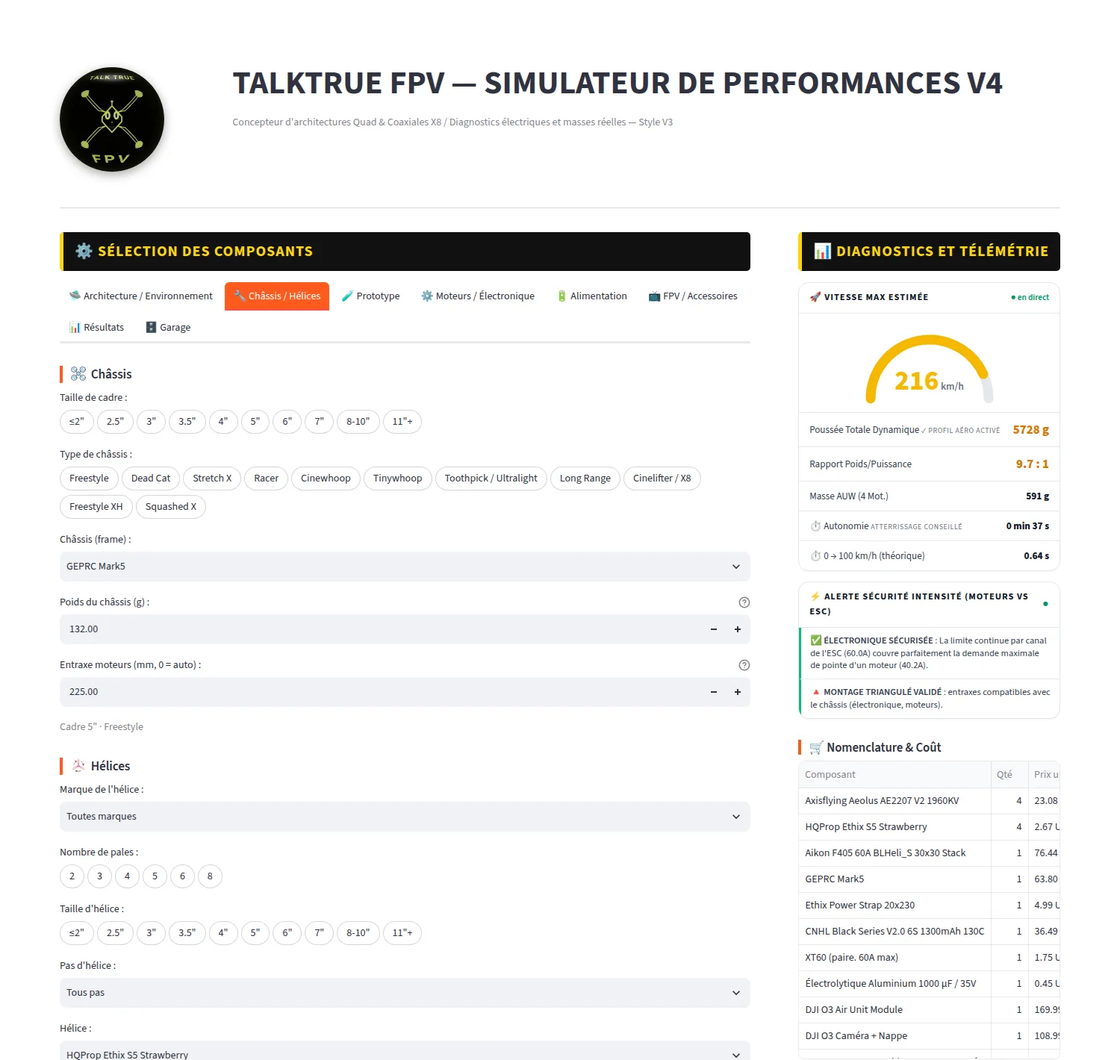
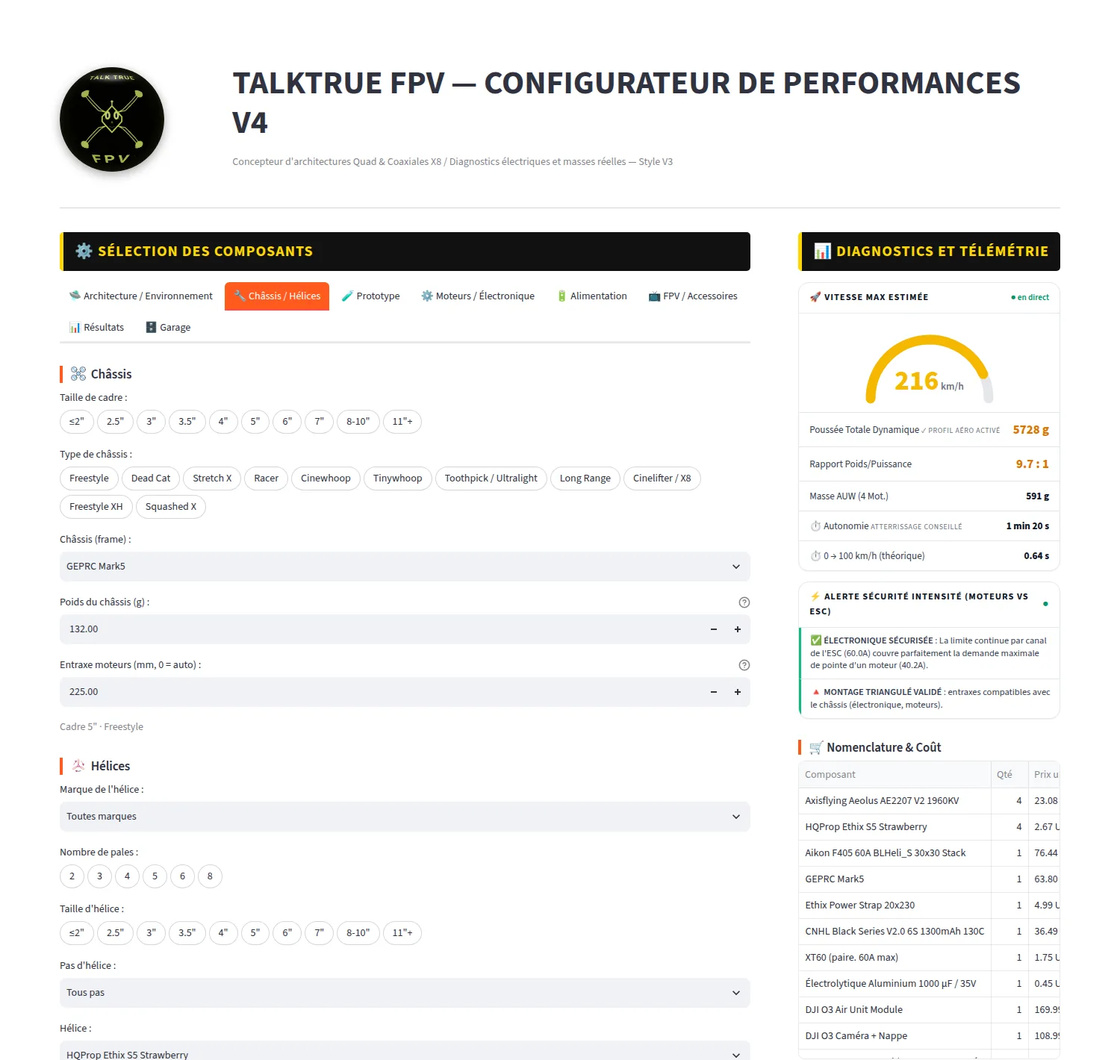
Page d'accueil : configurateur, bandeau Calculateur

Changed region(s): [[0.4293, 0.062, 0.92, 0.1239], [0.3987, 0.093, 0.4293, 0.1239], [0.2147, 0.093, 0.2453, 0.1239]]

diff --git a/index.html b/index.html
@@ -5,7 +5,7 @@
 <meta name="viewport" content="width=device-width, initial-scale=1">
 <title>TALKTRUE FPV — Concevez votre drone FPV : vitesse, puissance, autonomie et calcul CFD</title>
 <meta name="description" content="Concevez votre drone FPV et évaluez en 30 s sa vitesse maximale, sa poussée et son autonomie, avec plus de 1 000 composants indexés et plus de 200 châssis, validés par des données de vol GPS. Panier groupé par revendeur, garage de configurations, et en PRO la soufflerie et le calcul CFD OpenFOAM.">
-<meta name="keywords" content="calculateur FPV, simulateur drone FPV, vitesse drone FPV, autonomie batterie drone, poussée moteur hélice, CFD drone FPV, OpenFOAM drone, traînée drone FPV, Cx drone, ParaView, soufflerie drone, calculateur FPV, simulateur drone FPV, vitesse drone FPV, speeder FPV, eCalc alternative">
+<meta name="keywords" content="calculateur FPV, configurateur drone FPV, simulateur drone FPV, vitesse drone FPV, autonomie batterie drone, poussée moteur hélice, CFD drone FPV, OpenFOAM drone, traînée drone FPV, Cx drone, ParaView, soufflerie drone, calculateur FPV, simulateur drone FPV, vitesse drone FPV, speeder FPV, eCalc alternative">
 <link rel="canonical" href="https://jschmiedd.github.io/">
 <link rel="alternate" hreflang="fr" href="https://jschmiedd.github.io/">
 <link rel="alternate" hreflang="en" href="https://jschmiedd.github.io/en/">
@@ -34,7 +34,7 @@
   "@context": "https://schema.org",
   "@type": "WebSite",
   "name": "TALKTRUE FPV",
-  "alternateName": ["TalkTrue FPV", "TALKTRUE FPV Simulateur"],
+  "alternateName": ["TalkTrue FPV", "TALKTRUE FPV Configurateur"],
   "url": "https://jschmiedd.github.io/",
   "inLanguage": "fr"
 }
@@ -43,7 +43,7 @@
 {
   "@context": "https://schema.org",
   "@type": "SoftwareApplication",
-  "name": "TALKTRUE FPV — Simulateur de performances V4",
+  "name": "TALKTRUE FPV — Configurateur de performances V4",
   "applicationCategory": "EngineeringApplication",
   "operatingSystem": "Web",
   "url": "https://talktrue-simulateur-performences-v4.streamlit.app/",
@@ -64,7 +64,7 @@
      "acceptedAnswer": {"@type": "Answer", "text": "Non. Vous chargez votre STL, vous choisissez l'inclinaison et la vitesse, et le serveur de calcul TALKTRUE fait tout : réparation du STL, domaine, maillage snappyHexMesh, calcul k-ω SST jusqu'à convergence. Rien à installer."}},
     {"@type": "Question", "name": "Comment ouvrir les résultats dans ParaView ?",
      "acceptedAnswer": {"@type": "Answer", "text": "Chaque calcul fournit un zip pour ParaView (gratuit) : surface du drone, lignes de courant et une macro qui fait défiler l'air. Le pas à pas illustré est dans le Mode d'emploi de l'app."}},
-    {"@type": "Question", "name": "Le simulateur TALKTRUE FPV est-il gratuit ?",
+    {"@type": "Question", "name": "Le configurateur TALKTRUE FPV est-il gratuit ?",
      "acceptedAnswer": {"@type": "Answer", "text": "Oui. Le calculateur complet, plus de 200 châssis, les alertes de sécurité, le panier groupé par revendeur et un garage de 3 configurations sont gratuits et sans inscription. Le PRO ajoute le garage en ligne, la soufflerie, le calcul CFD, le châssis prototype, le Quad Speeder, la 3D, l'import STL/DXF et le recalage GPS."}},
     {"@type": "Question", "name": "Les vitesses calculées sont-elles fiables ?",
      "acceptedAnswer": {"@type": "Answer", "text": "Le modèle est calé sur de vrais vols mesurés au GPS (TOWA 5 pouces, 121 et 126 km/h) et tient compte de l'inclinaison du drone, de la densité de l'air et du format réel de la batterie. En PRO, vous pouvez recaler le calcul sur votre propre mesure GPS."}},
@@ -95,7 +95,7 @@
       <a href="#faq">FAQ</a>
     </nav>
     <a class="langue" href="en/" hreflang="en" lang="en">EN</a>
-    <a class="bouton principal" href="https://talktrue-simulateur-performences-v4.streamlit.app/">Lancer le simulateur</a>
+    <a class="bouton principal" href="https://talktrue-simulateur-performences-v4.streamlit.app/">Lancer le configurateur</a>
   </div>
 </header>
 
@@ -103,20 +103,23 @@
 <section class="heros">
   <div class="conteneur grille">
     <div>
-      <span class="sur">Simulateur de performances FPV · V4</span>
+      <span class="sur">Configurateur de performances FPV · V4</span>
       <h1>Concevez votre drone FPV. <span class="neon">Évaluez sa vitesse, sa puissance et son autonomie</span> avant de le construire.</h1>
       <p class="accroche">Poussée, vitesse maximale, autonomie et accélération transitoire (0 → 100 km/h) calculées à partir
         de composants réels du marché et validées en situation réelle par des données GPS. Du châssis 3 pouces au
         cinelifter X8, jusqu'au Quad Speeder à fuselage profilé, modélisez en 2D, en 3D, et accédez désormais au
         <b>calcul CFD OpenFOAM</b>.</p>
       <div class="actions">
-        <a class="bouton principal" href="https://talktrue-simulateur-performences-v4.streamlit.app/">🚀 Lancer le simulateur — Gratuit</a>
+        <a class="bouton principal" href="https://talktrue-simulateur-performences-v4.streamlit.app/">🚀 Lancer le configurateur — Gratuit</a>
         <a class="bouton secondaire" href="#cfd">🌀 Nouveau : module CFD</a>
       </div>
       <div class="chiffres">
-        <div><b>1 000+</b><span>Composants indexés</span></div>
-        <div><b>121 km/h</b><span>Vitesse max. validée par GPS</span></div>
-        <div><b>CFD</b><span>OpenFOAM sur votre STL</span></div>
+        <div><b>1 000+</b><span>Composants réels à configurer</span></div>
+        <div><b>Vols réels</b><span>Calculs calés sur GPS et blackbox</span></div>
+        <div><b>Calculateur</b><span>Formules physiques : poussée, traînée, vitesse, autonomie, intensités</span></div>
+        <div><b>Garage</b><span>Vos configurations comparées côte à côte</span></div>
+        <div><b>Panier</b><span>Vos pièces regroupées par vendeur</span></div>
+        <div><b>CFD</b><span>OpenFOAM + ParaView sur serveur dédié · moteur maison bientôt</span></div>
       </div>
     </div>
     <div class="sphere">
@@ -163,11 +166,11 @@
         <h3>Une interface pensée pour les pilotes</h3>
         <ul>
           <li><b>Filtres multicritères avancés</b> : tri instantané par dimensions de cellule, géométrie de châssis, équipementier, constante de vitesse (KV), pas d'hélice, configuration de cellules (S) et capacité nominale.</li>
-          <li><b>Persistance des données</b> : sauvegarde automatique de l'état de votre configuration lors de la navigation entre le simulateur, la documentation technique et le wiki.</li>
+          <li><b>Persistance des données</b> : sauvegarde automatique de l'état de votre configuration lors de la navigation entre le configurateur, la documentation technique et le wiki.</li>
           <li><b>Modélisation des conditions atmosphériques</b> : intégration des variables d'environnement (altitude-densité, température, hygrométrie et pression calée au niveau de la mer, QNH).</li>
         </ul>
       </div>
-      <figure class="visuel"><img src="assets/guide/01_apercu.webp" width="1500" height="1420" loading="lazy" alt="Interface du simulateur TALKTRUE FPV : sélection des composants et diagnostics"></figure>
+      <figure class="visuel"><img src="assets/guide/01_apercu.webp" width="1500" height="1420" loading="lazy" alt="Interface du configurateur TALKTRUE FPV : sélection des composants et diagnostics"></figure>
     </div>
   
     <div class="cartes">
@@ -194,9 +197,9 @@
           <li><b>Quantités réelles</b> : 4 moteurs, hélices, antennes vendues par paire comptées par lot.</li>
           <li>Prix en <b>EUR ou USD</b>, export <b>PDF / CSV</b> de la liste.</li>
         </ul>
-        <p class="note">Aucun site marchand ne permet d'ajouter un article à son panier depuis l'extérieur : le regroupement par boutique est la façon la plus rapide d'acheter sans rien oublier.</p>
+        <p class="note">Un clic par boutique : chaque site s'ouvre une seule fois, avec la liste complète des pièces à y commander.</p>
       </div>
-      <figure class="visuel" style="max-width:430px;justify-self:center"><img src="assets/guide/panier.webp" width="352" height="822" loading="lazy" alt="Panier d'achat du simulateur FPV groupé par revendeur, avec quantités, prix et liens"><figcaption>Un 5″ freestyle 6S : 6 boutiques, chaque pièce avec son lien</figcaption></figure>
+      <figure class="visuel" style="max-width:430px;justify-self:center"><img src="assets/guide/panier.webp" width="352" height="822" loading="lazy" alt="Panier d'achat du configurateur FPV groupé par revendeur, avec quantités, prix et liens"><figcaption>Un 5″ freestyle 6S : 6 boutiques, chaque pièce avec son lien</figcaption></figure>
     </div>
   </div>
 </section>
@@ -210,7 +213,7 @@
         <ul>
           <li><b>Enregistrez</b> vos configurations et <b>comparez-les côte à côte</b> : moteur, hélice, batterie, masse, poussée, vitesse, coût.</li>
           <li><b>Rechargez</b> une configuration dans les réglages en un clic.</li>
-          <li><b>Free</b> : 3 configurations gardées dans le lien de la page (favori = sauvegarde, lien = partage). <b>PRO</b> : 10 configurations en ligne, sur tous vos appareils.</li>
+          <li><b>Free</b> : jusqu'à 3 configurations. <b>PRO</b> : jusqu'à 10 configurations, retrouvées sur tous vos appareils.</li>
           <li><b>Export</b> Markdown (Discord, forum), CSV (Excel) ou PDF.</li>
         </ul>
       </div>
@@ -251,7 +254,7 @@
   <div class="conteneur">
     <span class="sur">Sur le terrain</span>
     <h2>Des drones qui volent vraiment</h2>
-    <p class="intro">Les mesures qui ont servi à caler le simulateur, et ce que donne le même TOWA 5″ une fois allégé et réglé.</p>
+    <p class="intro">Les mesures qui ont servi à caler le configurateur, et ce que donne le même TOWA 5″ une fois allégé et réglé.</p>
     <div class="terrain">
       <figure class="carte-photo haute"><video id="launch" autoplay loop muted playsinline poster="assets/terrain/launch_control.jpg" aria-label="Launch control d'un drone FPV"><source src="assets/terrain/launch_control.webm" type="video/webm"><source src="assets/terrain/launch_control.mp4" type="video/mp4"></video><button class="son" type="button" onclick="const v=document.getElementById('launch');v.muted=!v.muted;v.play();this.textContent=v.muted?'🔊 Son':'🔇';">🔊 Son</button><figcaption><b>Launch control</b> · départ depuis la caisse, vue FPV et blackbox</figcaption></figure>
       <figure class="carte-photo large"><img src="assets/terrain/towa_5pouces.webp" width="864" height="647" loading="lazy" alt="Drone FPV TOWA 5 pouces freestyle sur un chemin"><figcaption><b>TOWA 5″</b> · la configuration de calage, allégée de 16 g</figcaption></figure>
@@ -261,7 +264,7 @@
       <figure class="carte-photo"><img src="assets/terrain/towa_osd_186.webp" width="1080" height="810" loading="lazy" alt="Statistiques OSD : vitesse max 186 km/h"><figcaption><b class="neon">186 km/h</b> · vent dans le dos (vitesse sol, pas une mesure de référence)</figcaption></figure>
       <figure class="carte-photo avec-son"><video id="decollage3" autoplay loop muted playsinline poster="assets/terrain/decollage_3pouces.jpg" aria-label="Décollage d'un drone FPV 3 pouces"><source src="assets/terrain/decollage_3pouces_son.webm" type="video/webm"><source src="assets/terrain/decollage_3pouces_son.mp4" type="video/mp4"></video><button class="son" type="button" onclick="const v=document.getElementById('decollage3');v.muted=!v.muted;v.play();this.textContent=v.muted?'🔊 Son':'🔇';">🔊 Son</button><figcaption><b>TOWA 3″</b> · décollage plein gaz</figcaption></figure>
     </div>
-    <p class="note">Le simulateur est calé sur les vols de référence à 121 et 126 km/h (configuration d'origine, sans vent). Les 145 km/h ont été atteints après allègement et réglages Betaflight ; les 186 km/h avec le vent dans le dos.</p>
+    <p class="note">Le configurateur est calé sur les vols de référence à 121 et 126 km/h (configuration d'origine, sans vent). Les 145 km/h ont été atteints après allègement et réglages Betaflight ; les 186 km/h avec le vent dans le dos.</p>
   </div>
 </section>
 
@@ -344,7 +347,7 @@
           <li><b>Modélisation dynamique des rotors</b> : intégration du sillage aérodynamique des hélices en rotation, calcul de la perte de poussée par interaction avec le châssis (effet de sillage) et répartition de charge avant / arrière.</li>
           <li><b>Génération instantanée</b> : rendu en temps réel pour l'exploration de concepts ; validation finale par résolution des équations CFD.</li>
         </ul>
-        <p class="note">Le module de soufflerie applique les formulations analytiques du simulateur, calées sur des données de vol réelles. Les lignes de courant et les particules illustrent l'écoulement. Le calcul CFD, quant à lui, résout numériquement les équations de Navier-Stokes autour de votre maillage STL.</p>
+        <p class="note">Le module de soufflerie applique les formulations analytiques du configurateur, calées sur des données de vol réelles. Les lignes de courant et les particules illustrent l'écoulement. Le calcul CFD, quant à lui, résout numériquement les équations de Navier-Stokes autour de votre maillage STL.</p>
       </div>
       <div>
         <figure class="visuel"><video autoplay loop muted playsinline poster="assets/soufflerie/combinee.jpg"
@@ -442,7 +445,7 @@
           <li>Recalculé à <b>500 km/h</b> par le serveur TALKTRUE : <b>8,3</b> et <b>44 cm²</b>, le Cx reste quasi identique.</li>
           <li>Le calcul rapide de l'app (Cx fixe 0,68 pour un STL) <b>surestime</b> la traînée d'un Speeder bien profilé : le CFD le corrige.</li>
         </ul>
-        <p class="note">RANS stationnaire, sans les hélices ni leur souffle, lois de paroi : ordre de grandeur ±15 à 25 %. À confirmer par un vol GPS, comme tout le reste du simulateur.</p>
+        <p class="note">RANS stationnaire, sans les hélices ni leur souffle, lois de paroi : ordre de grandeur ±15 à 25 %. À confirmer par un vol GPS, comme tout le reste du configurateur.</p>
       </div>
       <div class="mesure">
         <table>
@@ -460,7 +463,7 @@
   <div class="conteneur">
     <span class="sur">L'atelier</span>
     <h2>Conçu par un pilote qui construit ses drones</h2>
-    <p class="intro">Châssis découpés, pièces imprimées en 3D, câblage et pesée : le simulateur est né de l'atelier,
+    <p class="intro">Châssis découpés, pièces imprimées en 3D, câblage et pesée : le configurateur est né de l'atelier,
       pour savoir avant de construire.</p>
     <div class="terrain">
       <figure class="carte-photo large"><img src="assets/constructions/bob_le_racer.webp" width="1200" height="900" loading="lazy" alt="BOB le Racer, drone FPV à canopée jaune, effigie de la marque TALKTRUE FPV"><figcaption><b class="neon">BOB le Racer</b> · l'effigie de la marque : sa canopée a donné sa forme au logo TALKTRUE</figcaption></figure>
@@ -511,12 +514,12 @@
   <div class="conteneur">
     <span class="sur">FAQ</span>
     <h2>Questions fréquentes</h2>
-    <details open><summary>Le simulateur est-il gratuit ?</summary><p>Oui. Le calculateur complet (poussée, vitesse, autonomie, accélération), plus de 200 châssis, les alertes de sécurité, le panier groupé par revendeur et un garage de 3 configurations sont gratuits et sans inscription. Le PRO ajoute le garage de 10 configurations en ligne, la soufflerie, le calcul CFD, le châssis prototype, le Quad Speeder, la 3D, l'import STL/DXF et le recalage GPS.</p></details>
+    <details open><summary>Le configurateur est-il gratuit ?</summary><p>Oui. Le calculateur complet (poussée, vitesse, autonomie, accélération), plus de 200 châssis, les alertes de sécurité, le panier groupé par revendeur et un garage de 3 configurations sont gratuits et sans inscription. Le PRO ajoute le garage de 10 configurations en ligne, la soufflerie, le calcul CFD, le châssis prototype, le Quad Speeder, la 3D, l'import STL/DXF et le recalage GPS.</p></details>
     <details><summary>Qu'est-ce que le calcul CFD ?</summary><p>Un vrai calcul d'écoulement de l'air autour de votre drone, fait avec <b>OpenFOAM</b> (le logiciel CFD libre utilisé dans l'industrie) à partir de votre fichier STL. Vous obtenez la traînée mesurée (S·Cx), le Cx équivalent, la portance, une carte de pression 3D et un paquet de fichiers pour ParaView.</p></details>
     <details><summary>Faut-il savoir utiliser OpenFOAM ?</summary><p>Non. Vous chargez votre STL, vous choisissez l'inclinaison et la vitesse, et le serveur de calcul fait tout : réparation du STL, domaine, maillage snappyHexMesh, calcul k-ω SST jusqu'à convergence, contrôles. Rien à installer sur votre ordinateur.</p></details>
     <details><summary>Combien de temps dure un calcul ?</summary><p>Quelques dizaines de minutes par inclinaison, selon la taille du modèle et la file d'attente. Vous pouvez fermer l'app : le calcul continue et le résultat vous attend dans l'onglet 🌀 Calcul CFD.</p></details>
     <details><summary>Comment voir les résultats dans ParaView ?</summary><p>Chaque calcul fournit un zip pour <a href="https://www.paraview.org/download/" rel="noopener">ParaView</a> (gratuit) : surface du drone, lignes de courant et une macro qui fait défiler l'air. Le pas à pas illustré est dans le Mode d'emploi de l'app.</p></details>
-    <details><summary>Le CFD est-il exact ?</summary><p>C'est un calcul stationnaire (RANS) sans les hélices ni leur souffle, avec des lois de paroi : comptez ±15 à 25 %. Il est idéal pour <b>comparer des formes</b> et voir d'où vient la traînée. La vitesse réelle se confirme par un vol GPS, sur laquelle vous pouvez recaler le simulateur.</p></details>
+    <details><summary>Le CFD est-il exact ?</summary><p>C'est un calcul stationnaire (RANS) sans les hélices ni leur souffle, avec des lois de paroi : comptez ±15 à 25 %. Il est idéal pour <b>comparer des formes</b> et voir d'où vient la traînée. La vitesse réelle se confirme par un vol GPS, sur laquelle vous pouvez recaler le configurateur.</p></details>
     <details><summary>Et la soufflerie virtuelle ?</summary><p>C'est l'estimation instantanée : mêmes formules que la vitesse max, calées sur des vols GPS, avec l'écoulement et le jet des hélices illustrés. Utilisez-la pour explorer, puis le calcul CFD pour trancher.</p></details>
     <details><summary>Quelle différence avec eCalc ?</summary><p>eCalc est une référence pour le calcul pur. TALKTRUE FPV est une plateforme de conception : calcul CFD de votre propre modèle, composants réels avec prix et liens d'achat, garage de configurations, esquisses cotées, maquettes 3D et import de vos plans de CAO.</p></details>
     <details><summary>Qui est BOB ?</summary><p>BOB le Racer, c'est le drone de course à canopée jaune qui a inspiré le logo TALKTRUE FPV : sa silhouette est au centre de la sphère. L'effigie de la marque, et un vrai drone qui vole.</p></details>
@@ -535,9 +538,9 @@
 
 <footer>
   <div class="conteneur">
-    <span>© 2026 TALKTRUE FPV — Simulateur de performances V4 et calcul CFD</span>
+    <span>© 2026 TALKTRUE FPV — Configurateur de performances V4 et calcul CFD</span>
     <nav aria-label="Liens">
-      <a href="https://talktrue-simulateur-performences-v4.streamlit.app/">Simulateur</a>
+      <a href="https://talktrue-simulateur-performences-v4.streamlit.app/">Configurateur</a>
       <a href="https://www.paraview.org/download/" rel="noopener">ParaView</a>
       <a href="mailto:talktruefpv@gmail.com">talktruefpv@gmail.com</a>
       <a href="https://www.instagram.com/talktruefpv/">Instagram</a>

diff --git a/en/index.html b/en/index.html
@@ -5,7 +5,7 @@
 <meta name="viewport" content="width=device-width, initial-scale=1">
 <title>TALKTRUE FPV — Design your FPV drone: speed, power, flight time and CFD</title>
 <meta name="description" content="Design your FPV drone and assess its top speed, thrust and flight time in 30 s, with over 1,000 indexed components and over 200 frames, validated with GPS flight data. Cart grouped by retailer, build garage, and in PRO the wind tunnel and OpenFOAM CFD.">
-<meta name="keywords" content="FPV calculator, FPV drone simulator, FPV drone speed, drone battery flight time, motor prop thrust, FPV drone CFD, OpenFOAM drone, FPV drone drag, drone drag coefficient, ParaView, drone wind tunnel, FPV calculator, FPV drone simulator, FPV drone speed, FPV speeder, eCalc alternative">
+<meta name="keywords" content="FPV calculator, FPV drone configurator, FPV simulator, FPV drone speed, drone battery flight time, motor prop thrust, FPV drone CFD, OpenFOAM drone, FPV drone drag, drone drag coefficient, ParaView, drone wind tunnel, FPV calculator, FPV drone simulator, FPV drone speed, FPV speeder, eCalc alternative">
 <link rel="canonical" href="https://jschmiedd.github.io/en/">
 <link rel="alternate" hreflang="fr" href="https://jschmiedd.github.io/">
 <link rel="alternate" hreflang="en" href="https://jschmiedd.github.io/en/">
@@ -33,7 +33,7 @@
   "@context": "https://schema.org",
   "@type": "WebSite",
   "name": "TALKTRUE FPV",
-  "alternateName": ["TalkTrue FPV", "TALKTRUE FPV Simulator"],
+  "alternateName": ["TalkTrue FPV", "TALKTRUE FPV Configurator"],
   "url": "https://jschmiedd.github.io/",
   "inLanguage": "en"
 }
@@ -42,7 +42,7 @@
 {
   "@context": "https://schema.org",
   "@type": "SoftwareApplication",
-  "name": "TALKTRUE FPV — Performance simulator V4",
+  "name": "TALKTRUE FPV — Performance configurator V4",
   "applicationCategory": "EngineeringApplication",
   "operatingSystem": "Web",
   "url": "https://talktrue-simulateur-performences-v4.streamlit.app/",
@@ -63,7 +63,7 @@
      "acceptedAnswer": {"@type": "Answer", "text": "No. Upload your STL, choose the tilt and speed, and the TALKTRUE compute server does the rest: STL repair, domain, snappyHexMesh meshing, k-ω SST solve until convergence. Nothing to install."}},
     {"@type": "Question", "name": "How do I open the results in ParaView?",
      "acceptedAnswer": {"@type": "Answer", "text": "Every run comes with a zip for ParaView (free): drone surface, streamlines and a macro that makes the air flow. The illustrated step-by-step is in the app's user guide."}},
-    {"@type": "Question", "name": "Is the TALKTRUE FPV simulator free?",
+    {"@type": "Question", "name": "Is the TALKTRUE FPV configurator free?",
      "acceptedAnswer": {"@type": "Answer", "text": "Yes. The full calculator, over 200 frames, safety alerts, the cart grouped by retailer and a garage of 3 builds are free with no sign-up. PRO adds the online garage, the wind tunnel, CFD, the prototype frame, the Quad Speeder, 3D, STL/DXF import and GPS calibration."}},
     {"@type": "Question", "name": "Are the calculated speeds reliable?",
      "acceptedAnswer": {"@type": "Answer", "text": "The model is calibrated on real GPS-measured flights (TOWA 5-inch, 121 and 126 km/h) and accounts for the drone's tilt, air density and the real battery format. In PRO you can recalibrate on your own GPS measurement."}},
@@ -94,7 +94,7 @@
       <a href="#faq">FAQ</a>
     </nav>
     <a class="langue" href="../" hreflang="fr" lang="fr">FR</a>
-    <a class="bouton principal" href="https://talktrue-simulateur-performences-v4.streamlit.app/">Launch the simulator</a>
+    <a class="bouton principal" href="https://talktrue-simulateur-performences-v4.streamlit.app/">Launch the configurator</a>
   </div>
 </header>
 
@@ -102,20 +102,23 @@
 <section class="heros">
   <div class="conteneur grille">
     <div>
-      <span class="sur">FPV performance simulator · V4</span>
+      <span class="sur">FPV performance configurator · V4</span>
       <h1>Design your FPV drone. <span class="neon">Assess its speed, power and flight time</span> before you build it.</h1>
       <p class="accroche">Thrust, top speed, flight time and transient acceleration (0 → 100 km/h) computed from
         real market components and validated in real-world conditions with GPS data. From 3-inch frames to
         X8 cinelifters and the streamlined Quad Speeder, model in 2D and 3D, and now access
         <b>OpenFOAM CFD</b>.</p>
       <div class="actions">
-        <a class="bouton principal" href="https://talktrue-simulateur-performences-v4.streamlit.app/">🚀 Launch the simulator — Free</a>
+        <a class="bouton principal" href="https://talktrue-simulateur-performences-v4.streamlit.app/">🚀 Launch the configurator — Free</a>
         <a class="bouton secondaire" href="#cfd">🌀 New: CFD module</a>
       </div>
       <div class="chiffres">
-        <div><b>1,000+</b><span>Indexed components</span></div>
-        <div><b>121 km/h</b><span>Top speed validated by GPS</span></div>
-        <div><b>CFD</b><span>OpenFOAM on your STL</span></div>
+        <div><b>1,000+</b><span>Real components to configure</span></div>
+        <div><b>Real flights</b><span>Calibrated on GPS and blackbox data</span></div>
+        <div><b>Calculator</b><span>Physics formulas: thrust, drag, speed, flight time, currents</span></div>
+        <div><b>Garage</b><span>Your builds compared side by side</span></div>
+        <div><b>Cart</b><span>Your parts grouped by retailer</span></div>
+        <div><b>CFD</b><span>OpenFOAM + ParaView on a dedicated server · in-house engine coming soon</span></div>
       </div>
     </div>
     <div class="sphere">
@@ -162,11 +165,11 @@
         <h3>An interface designed for pilots</h3>
         <ul>
           <li><b>Advanced multi-criteria filters</b>: instant sorting by airframe size, frame geometry, manufacturer, velocity constant (KV), prop pitch, cell configuration (S) and rated capacity.</li>
-          <li><b>Data persistence</b>: your configuration state is saved automatically as you move between the simulator, the technical documentation and the wiki.</li>
+          <li><b>Data persistence</b>: your configuration state is saved automatically as you move between the configurator, the technical documentation and the wiki.</li>
           <li><b>Atmospheric modelling</b>: environment variables included (density altitude, temperature, humidity and sea-level pressure, QNH).</li>
         </ul>
       </div>
-      <figure class="visuel"><img src="../assets/guide/01_apercu.webp" width="1500" height="1420" loading="lazy" alt="TALKTRUE FPV simulator interface: component selection and diagnostics"></figure>
+      <figure class="visuel"><img src="../assets/guide/01_apercu.webp" width="1500" height="1420" loading="lazy" alt="TALKTRUE FPV configurator interface: component selection and diagnostics"></figure>
     </div>
   
     <div class="cartes">
@@ -193,9 +196,9 @@
           <li><b>Real quantities</b>: 4 motors, props, antennas sold in pairs counted by pack.</li>
           <li>Prices in <b>EUR or USD</b>, <b>PDF / CSV</b> export of the list.</li>
         </ul>
-        <p class="note">No shop lets you add items to its cart from outside: grouping by shop is the fastest way to buy without forgetting anything.</p>
+        <p class="note">One click per shop: each site opens once, with the full list of parts to order there.</p>
       </div>
-      <figure class="visuel" style="max-width:430px;justify-self:center"><img src="../assets/guide/panier.webp" width="352" height="822" loading="lazy" alt="FPV simulator shopping cart grouped by retailer, with quantities, prices and links"><figcaption>A 6S 5″ freestyle build: 6 shops, every part with its link</figcaption></figure>
+      <figure class="visuel" style="max-width:430px;justify-self:center"><img src="../assets/guide/panier.webp" width="352" height="822" loading="lazy" alt="FPV configurator shopping cart grouped by retailer, with quantities, prices and links"><figcaption>A 6S 5″ freestyle build: 6 shops, every part with its link</figcaption></figure>
     </div>
   </div>
 </section>
@@ -209,7 +212,7 @@
         <ul>
           <li><b>Save</b> your builds and <b>compare them side by side</b>: motor, prop, battery, weight, thrust, speed, cost.</li>
           <li><b>Reload</b> a build into the settings in one click.</li>
-          <li><b>Free</b>: 3 builds kept in the page link (bookmark = save, link = share). <b>PRO</b>: 10 builds online, on all your devices.</li>
+          <li><b>Free</b>: up to 3 builds. <b>PRO</b>: up to 10 builds, available on all your devices.</li>
           <li><b>Export</b> to Markdown (Discord, forums), CSV (Excel) or PDF.</li>
         </ul>
       </div>
@@ -249,7 +252,7 @@
   <div class="conteneur">
     <span class="sur">In the field</span>
     <h2>Drones that actually fly</h2>
-    <p class="intro">The measurements used to calibrate the simulator, and what the same TOWA 5″ does once lightened and tuned.</p>
+    <p class="intro">The measurements used to calibrate the configurator, and what the same TOWA 5″ does once lightened and tuned.</p>
     <div class="terrain">
       <figure class="carte-photo haute"><video id="launch" autoplay loop muted playsinline poster="../assets/terrain/launch_control.jpg" aria-label="FPV drone launch control"><source src="../assets/terrain/launch_control.webm" type="video/webm"><source src="../assets/terrain/launch_control.mp4" type="video/mp4"></video><button class="son" type="button" onclick="const v=document.getElementById('launch');v.muted=!v.muted;v.play();this.textContent=v.muted?'🔊 Sound':'🔇';">🔊 Sound</button><figcaption><b>Launch control</b> · take-off from the box, FPV view and blackbox</figcaption></figure>
       <figure class="carte-photo large"><img src="../assets/terrain/towa_5pouces.webp" width="864" height="647" loading="lazy" alt="TOWA 5-inch freestyle FPV drone on a path"><figcaption><b>TOWA 5″</b> · the calibration build, 16 g lighter</figcaption></figure>
@@ -259,7 +262,7 @@
       <figure class="carte-photo"><img src="../assets/terrain/towa_osd_186.webp" width="1080" height="810" loading="lazy" alt="OSD stats: max speed 186 km/h"><figcaption><b class="neon">186 km/h</b> · with a tailwind (ground speed, not a reference measurement)</figcaption></figure>
       <figure class="carte-photo avec-son"><video id="decollage3" autoplay loop muted playsinline poster="../assets/terrain/decollage_3pouces.jpg" aria-label="3-inch FPV drone take-off"><source src="../assets/terrain/decollage_3pouces_son.webm" type="video/webm"><source src="../assets/terrain/decollage_3pouces_son.mp4" type="video/mp4"></video><button class="son" type="button" onclick="const v=document.getElementById('decollage3');v.muted=!v.muted;v.play();this.textContent=v.muted?'🔊 Sound':'🔇';">🔊 Sound</button><figcaption><b>TOWA 3″</b> · full-throttle take-off</figcaption></figure>
     </div>
-    <p class="note">The simulator is calibrated on the 121 and 126 km/h reference flights (stock build, no wind). 145 km/h was reached after weight savings and Betaflight tuning; 186 km/h with a tailwind.</p>
+    <p class="note">The configurator is calibrated on the 121 and 126 km/h reference flights (stock build, no wind). 145 km/h was reached after weight savings and Betaflight tuning; 186 km/h with a tailwind.</p>
   </div>
 </section>
 
@@ -342,7 +345,7 @@
           <li><b>Dynamic rotor modelling</b>: wake of the spinning propellers included, thrust loss from interaction with the frame (wake effect) and front / rear load split.</li>
           <li><b>Instant generation</b>: real-time rendering to explore concepts; final validation by solving the CFD equations.</li>
         </ul>
-        <p class="note">The wind tunnel module applies the simulator's analytical formulations, calibrated on real flight data. Streamlines and particles illustrate the flow. The CFD run, for its part, numerically solves the Navier-Stokes equations around your STL mesh.</p>
+        <p class="note">The wind tunnel module applies the configurator's analytical formulations, calibrated on real flight data. Streamlines and particles illustrate the flow. The CFD run, for its part, numerically solves the Navier-Stokes equations around your STL mesh.</p>
       </div>
       <div>
         <figure class="visuel"><video autoplay loop muted playsinline poster="../assets/soufflerie/combinee.jpg"
@@ -440,7 +443,7 @@
           <li>Recomputed at <b>500 km/h</b> by the TALKTRUE server: <b>8.3</b> and <b>44 cm²</b>, the drag coefficient stays almost the same.</li>
           <li>The app's quick estimate (fixed Cd 0.68 for an STL) <b>overestimates</b> the drag of a well-streamlined Speeder: CFD corrects it.</li>
         </ul>
-        <p class="note">Steady RANS, without the propellers or their slipstream, wall functions: ±15 to 25 %. To be confirmed by a GPS flight, like the rest of the simulator.</p>
+        <p class="note">Steady RANS, without the propellers or their slipstream, wall functions: ±15 to 25 %. To be confirmed by a GPS flight, like the rest of the configurator.</p>
       </div>
       <div class="mesure">
         <table>
@@ -458,7 +461,7 @@
   <div class="conteneur">
     <span class="sur">The workshop</span>
     <h2>Built by a pilot who builds his own drones</h2>
-    <p class="intro">Cut frames, 3D-printed parts, wiring and weighing: the simulator was born in the workshop,
+    <p class="intro">Cut frames, 3D-printed parts, wiring and weighing: the configurator was born in the workshop,
       to know before you build.</p>
     <div class="terrain">
       <figure class="carte-photo large"><img src="../assets/constructions/bob_le_racer.webp" width="1200" height="900" loading="lazy" alt="BOB the Racer, FPV drone with a yellow canopy, the TALKTRUE FPV mascot"><figcaption><b class="neon">BOB the Racer</b> · the brand's mascot: his canopy gave the TALKTRUE logo its shape</figcaption></figure>
@@ -509,12 +512,12 @@
   <div class="conteneur">
     <span class="sur">FAQ</span>
     <h2>Frequently asked questions</h2>
-    <details open><summary>Is the simulator free?</summary><p>Yes. The full calculator (thrust, speed, flight time, acceleration), over 200 frames, safety alerts, the cart grouped by retailer and a garage of 3 builds are free with no sign-up. PRO adds the online garage of 10 builds, the wind tunnel, CFD, the prototype frame, the Quad Speeder, 3D, STL/DXF import and GPS calibration.</p></details>
+    <details open><summary>Is the configurator free?</summary><p>Yes. The full calculator (thrust, speed, flight time, acceleration), over 200 frames, safety alerts, the cart grouped by retailer and a garage of 3 builds are free with no sign-up. PRO adds the online garage of 10 builds, the wind tunnel, CFD, the prototype frame, the Quad Speeder, 3D, STL/DXF import and GPS calibration.</p></details>
     <details><summary>What is the CFD simulation?</summary><p>A real simulation of the airflow around your drone, run with <b>OpenFOAM</b> (the open-source CFD software used in industry) from your STL file. You get the measured drag area (S·Cd), the equivalent drag coefficient, lift, a 3D pressure map and a file pack for ParaView.</p></details>
     <details><summary>Do I need to know OpenFOAM?</summary><p>No. Upload your STL, pick the tilt and speed, and the compute server does everything: STL repair, domain, snappyHexMesh meshing, k-ω SST solve until convergence, checks. Nothing to install on your computer.</p></details>
     <details><summary>How long does a run take?</summary><p>A few tens of minutes per tilt, depending on the model size and the queue. You can close the app: the run continues and the result waits for you in the 🌀 Calcul CFD tab.</p></details>
     <details><summary>How do I view the results in ParaView?</summary><p>Every run comes with a zip for <a href="https://www.paraview.org/download/" rel="noopener">ParaView</a> (free): drone surface, streamlines and a macro that makes the air flow. The illustrated step-by-step is in the app's user guide.</p></details>
-    <details><summary>Is the CFD exact?</summary><p>It is a steady (RANS) simulation without the propellers or their slipstream, with wall functions: allow ±15 to 25 %. It's ideal to <b>compare shapes</b> and see where drag comes from. Real speed is confirmed by a GPS flight, on which you can recalibrate the simulator.</p></details>
+    <details><summary>Is the CFD exact?</summary><p>It is a steady (RANS) simulation without the propellers or their slipstream, with wall functions: allow ±15 to 25 %. It's ideal to <b>compare shapes</b> and see where drag comes from. Real speed is confirmed by a GPS flight, on which you can recalibrate the configurator.</p></details>
     <details><summary>And the virtual wind tunnel?</summary><p>It's the instant estimate: same formulas as top speed, calibrated on GPS flights, with the airflow and prop slipstream illustrated. Use it to explore, then CFD to settle it.</p></details>
     <details><summary>How is it different from eCalc?</summary><p>eCalc is a reference for pure calculation. TALKTRUE FPV is a design platform: CFD of your own model, real parts with prices and shop links, a build garage, dimensioned sketches, 3D models and import of your CAD drawings.</p></details>
     <details><summary>Who is BOB?</summary><p>BOB the Racer is the yellow-canopy racing drone that inspired the TALKTRUE FPV logo: his silhouette sits at the centre of the sphere. The brand's mascot, and a real drone that flies.</p></details>
@@ -533,9 +536,9 @@
 
 <footer>
   <div class="conteneur">
-    <span>© 2026 TALKTRUE FPV — Performance simulator V4 and CFD</span>
+    <span>© 2026 TALKTRUE FPV — Performance configurator V4 and CFD</span>
     <nav aria-label="Links">
-      <a href="https://talktrue-simulateur-performences-v4.streamlit.app/">Simulator</a>
+      <a href="https://talktrue-simulateur-performences-v4.streamlit.app/">Configurator</a>
       <a href="https://www.paraview.org/download/" rel="noopener">ParaView</a>
       <a href="mailto:talktruefpv@gmail.com">talktruefpv@gmail.com</a>
       <a href="https://www.instagram.com/talktruefpv/">Instagram</a>

diff --git a/merci.html b/merci.html
@@ -32,15 +32,15 @@
     </div>
     <span class="sur">Accès Fondateur</span>
     <h1>Merci, vous faites partie des <span class="neon">Fondateurs</span> !</h1>
-    <p class="intro">Votre soutien fait avancer le simulateur TALKTRUE FPV. Voici la suite.</p>
+    <p class="intro">Votre soutien fait avancer le configurateur TALKTRUE FPV. Voici la suite.</p>
     <div class="etapes-merci">
       <div>📩 <b>Votre code PRO personnel arrive par e-mail sous 24 h</b>, à l'adresse utilisée pour votre paiement. Pensez à vérifier vos spams et l'onglet « Promotions ».</div>
-      <div>🔑 <b>Pour l'activer</b> : ouvrez le simulateur, collez le code dans « Code d'accès PRO » (barre latérale), validez avec Entrée. Il reste mémorisé sur votre appareil.</div>
+      <div>🔑 <b>Pour l'activer</b> : ouvrez le configurateur, collez le code dans « Code d'accès PRO » (barre latérale), validez avec Entrée. Il reste mémorisé sur votre appareil.</div>
       <div>🗄 <b>Votre garage est sauvegardé en ligne</b> avec votre code : vous retrouvez vos configurations sur tous vos appareils.</div>
       <div>❓ <b>Une question, pas de code après 24 h ?</b> Écrivez à <a href="mailto:talktruefpv@gmail.com">talktruefpv@gmail.com</a> ou sur Instagram <a href="https://www.instagram.com/talktruefpv/">@talktruefpv</a>.</div>
     </div>
     <div class="actions">
-      <a class="bouton principal" href="https://talktrue-simulateur-performences-v4.streamlit.app/">🚀 Ouvrir le simulateur</a>
+      <a class="bouton principal" href="https://talktrue-simulateur-performences-v4.streamlit.app/">🚀 Ouvrir le configurateur</a>
       <a class="bouton secondaire" href="https://talktrue-simulateur-performences-v4.streamlit.app/Guide_PRO">⭐ Guide PRO</a>
     </div>
   </div>

diff --git a/assets/style.css b/assets/style.css
@@ -65,9 +65,10 @@ p { margin: 0 0 1em; }
 .heros .grille { display: grid; grid-template-columns: 1.05fr .95fr; gap: 56px; align-items: center; position: relative; }
 .heros .accroche { font-size: 1.2rem; color: var(--doux); max-width: 36em; }
 .actions { display: flex; gap: 14px; flex-wrap: wrap; margin: 30px 0 34px; }
-.chiffres { display: flex; gap: 34px; flex-wrap: wrap; }
-.chiffres div { min-width: 120px; }
-.chiffres b { display: block; font: 700 2rem "Rajdhani", sans-serif; color: var(--texte); }
+.chiffres { display: grid; grid-template-columns: repeat(3, minmax(0, 1fr)); gap: 20px 28px; }
+.chiffres div { min-width: 0; }
+.chiffres b { display: block; font: 700 1.7rem "Rajdhani", sans-serif; color: var(--texte); }
+@media (max-width: 520px) { .chiffres { grid-template-columns: repeat(2, minmax(0, 1fr)); gap: 16px 20px; } .chiffres b { font-size: 1.45rem; } }
 .chiffres span { color: var(--doux); font-size: .88rem; }
 .sphere { position: relative; justify-self: center; width: min(430px, 88vw); aspect-ratio: 1; }
 .sphere video, .sphere img { width: 100%; height: 100%; border-radius: 50%; object-fit: cover; position: relative; z-index: 1;
